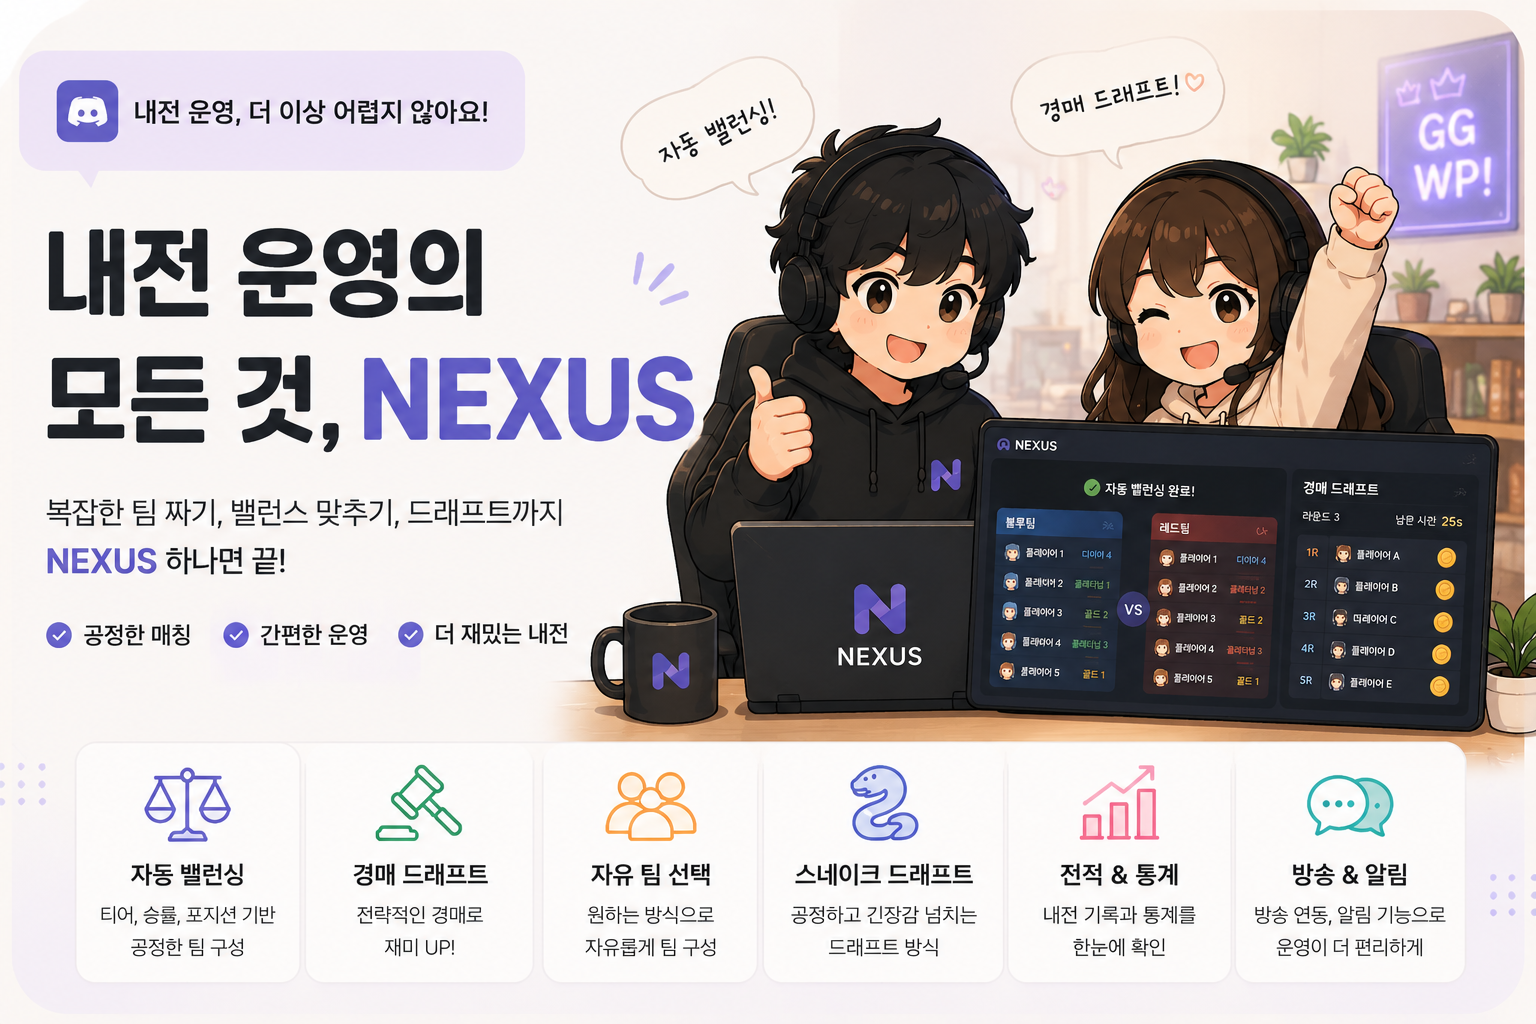
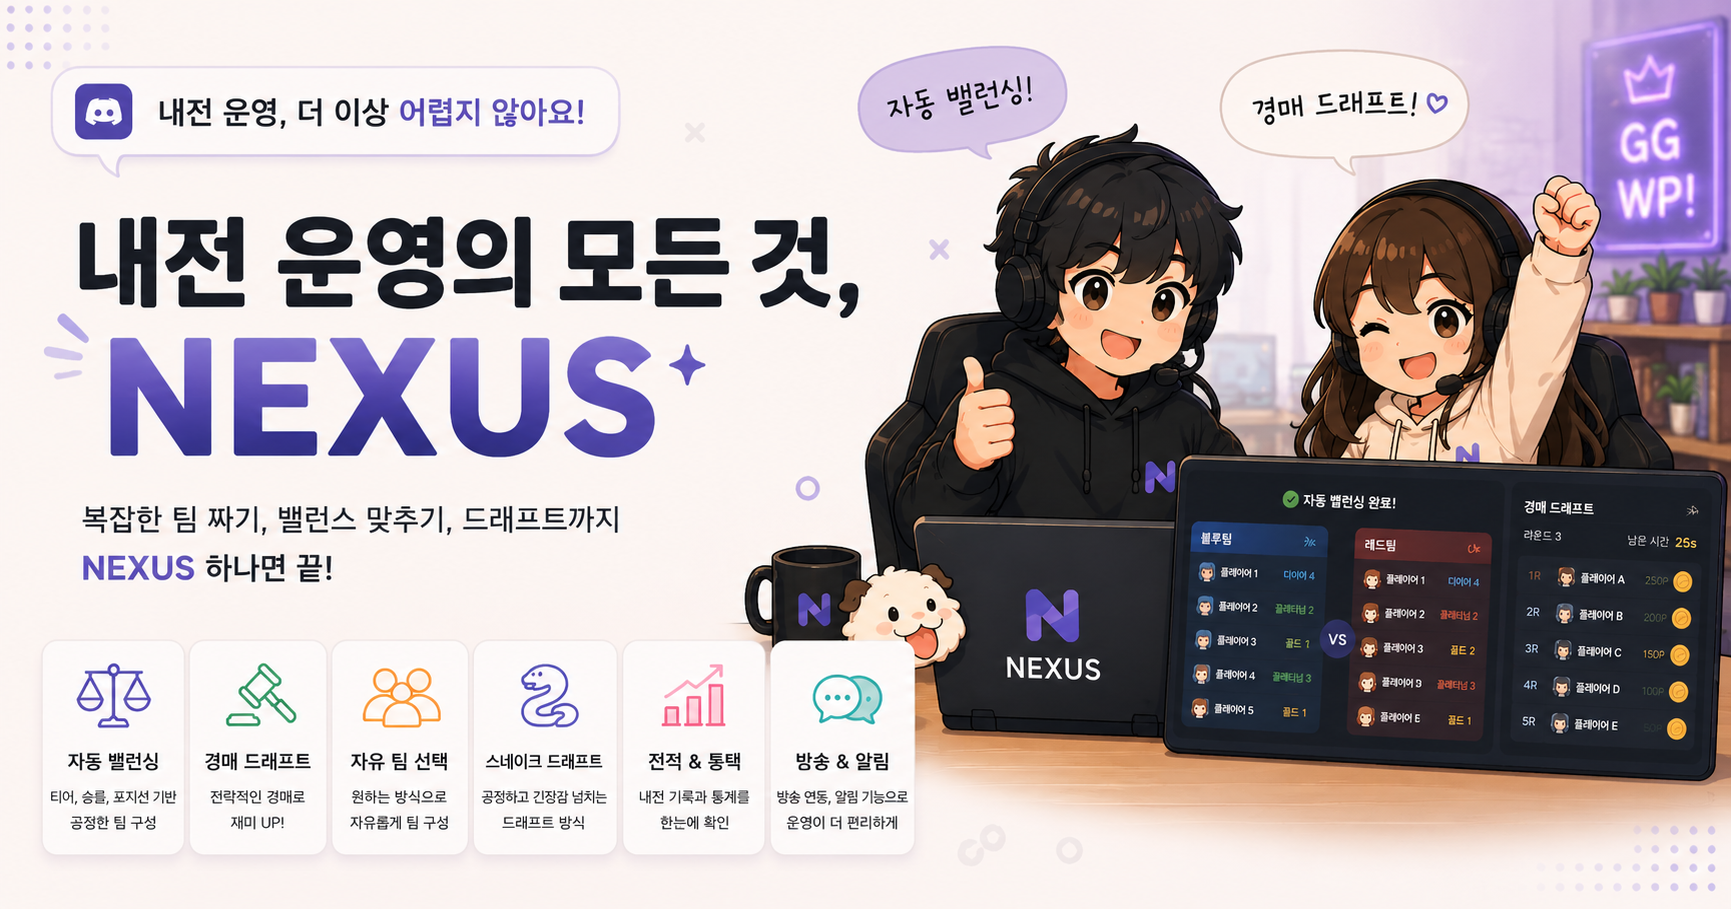
chore(web): OG 배너 이미지 교체 (1731×909, 1.91:1 비율)
플랫폼 표준 비율에 맞는 이미지로 교체

diff --git a/apps/web/src/app/layout.tsx b/apps/web/src/app/layout.tsx
@@ -78,8 +78,8 @@ export const metadata: Metadata = {
     images: [
       {
         url: absoluteUrl("/images/og-banner.png"),
-        width: 1536,
-        height: 1024,
+        width: 1731,
+        height: 909,
         alt: "Nexus - 내전 운영의 모든 것",
       },
     ],